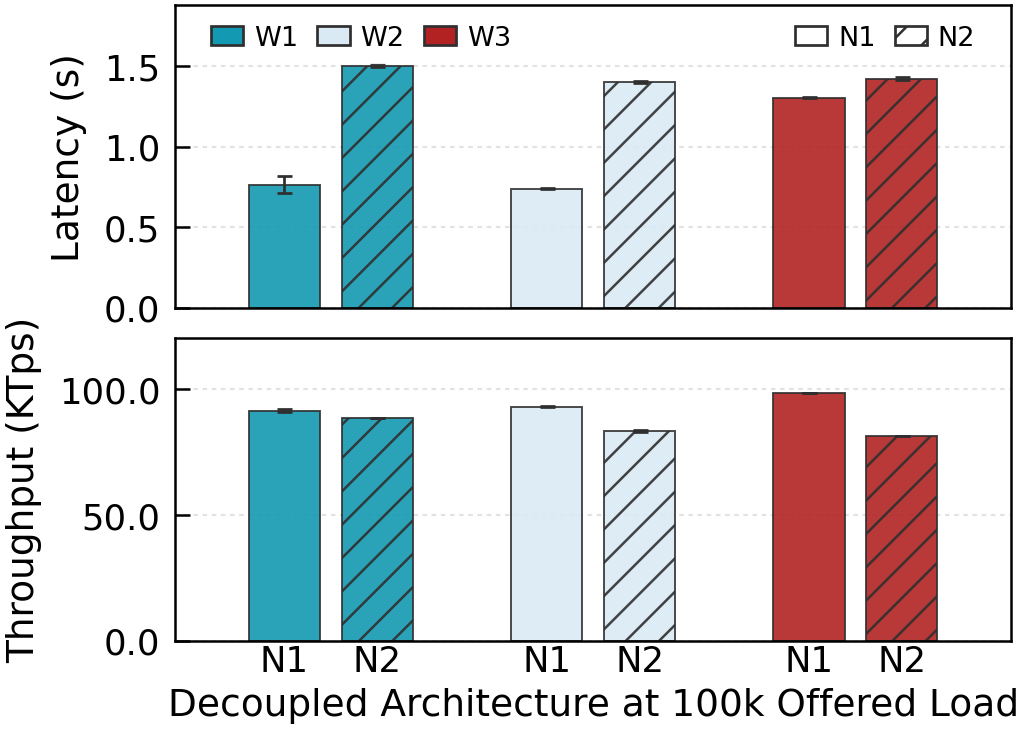
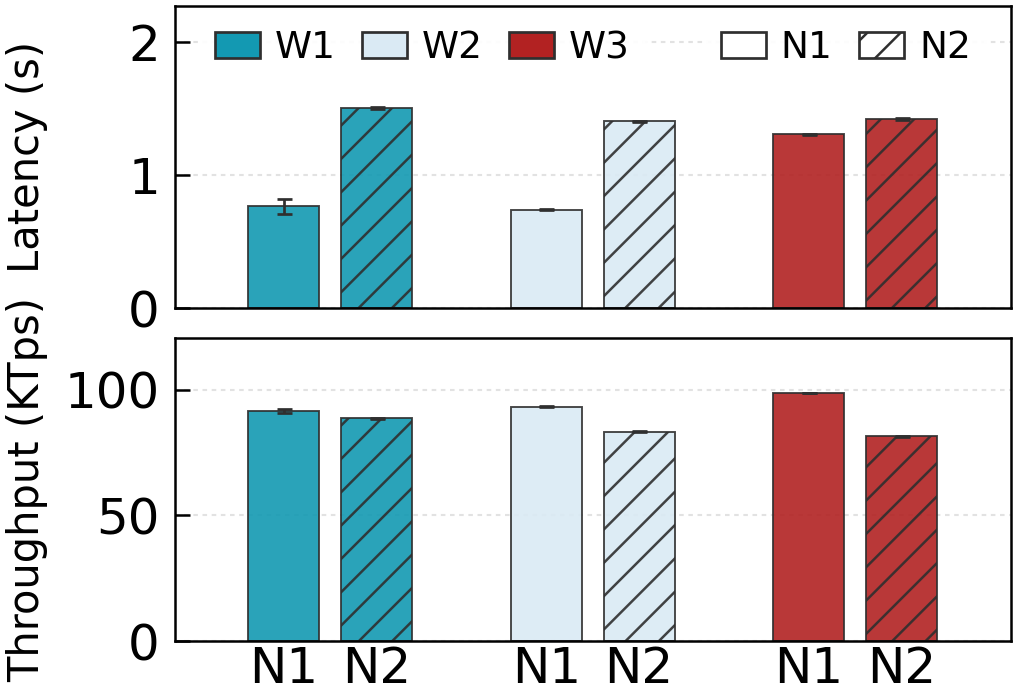
m

Changed region(s): [[0.0, 0.0, 1.0, 0.9914], [0.7323, 0.721, 0.7628, 0.7511], [0.7323, 0.2403, 0.7628, 0.2704]]

diff --git a/benchmark/decouple/compare/plot_workload_grouped_network_metrics_decouple_100k_consensus.py b/benchmark/decouple/compare/plot_workload_grouped_network_metrics_decouple_100k_consensus.py
@@ -13,7 +13,7 @@ from statistics import mean, stdev
 
 import matplotlib.pyplot as plt
 from matplotlib.patches import Patch
-from matplotlib.ticker import StrMethodFormatter
+from matplotlib.ticker import FuncFormatter
 
 SCRIPT_DIR = Path(__file__).resolve().parent
 DATA_ROOT = SCRIPT_DIR.parent
@@ -159,11 +159,11 @@ def _set_academic_style():
             "font.sans-serif": ["DejaVu Sans", "Arial", "Helvetica"],
             "mathtext.fontset": "dejavusans",
             "font.size": 9,
-            "axes.labelsize": 9,
+            "axes.labelsize": 10,
             "axes.titlesize": 9,
-            "xtick.labelsize": 8.5,
-            "ytick.labelsize": 8.5,
-            "legend.fontsize": 6.5,
+            "xtick.labelsize": 12,
+            "ytick.labelsize": 12,
+            "legend.fontsize": 9,
             "legend.title_fontsize": 6.5,
             "axes.spines.top": True,
             "axes.spines.right": True,
@@ -198,12 +198,12 @@ def _build_positions() -> list[float]:
     return positions
 
 
-def _style_axis(ax, ylabel: str, tick_format: str = "{x:,.1f}"):
+def _style_axis(ax, ylabel: str):
     ax.set_ylabel(ylabel)
     ax.grid(True, axis="y", linestyle=(0, (2.2, 2.2)), alpha=0.28, color="#9a9a9a")
     ax.grid(False, axis="x")
     ax.set_axisbelow(True)
-    ax.yaxis.set_major_formatter(StrMethodFormatter(tick_format))
+    ax.yaxis.set_major_formatter(FuncFormatter(lambda x, _: f"{x:g}"))
 
 
 def plot_combo_metrics(output_paths: list[Path]):
@@ -262,13 +262,13 @@ def plot_combo_metrics(output_paths: list[Path]):
 
     latency_top = max(v + e for v, e in zip(latency_values, latency_errors))
     tps_top = max(v + e for v, e in zip(tps_values, tps_errors))
-    ax_latency.set_ylim(0, latency_top * 1.24)
+    ax_latency.set_ylim(0, latency_top * 1.5)
     ax_tps.set_ylim(0, tps_top * 1.22)
     ax_latency.tick_params(axis="x", bottom=False, top=False, labelbottom=False)
     ax_tps.tick_params(axis="x", bottom=False, top=False, pad=1)
     ax_tps.set_xticks(x_positions)
     ax_tps.set_xticklabels(x_labels)
-    ax_tps.set_xlabel("Decoupled Architecture at 100k Offered Load", labelpad=2)
+    # ax_tps.set_xlabel("Decoupled Architecture at 100k Offered Load", labelpad=2)
 
     ax_latency.set_xlim(min(x_positions) - 0.02, max(x_positions) + 0.02)
 
@@ -324,6 +324,7 @@ def plot_combo_metrics(output_paths: list[Path]):
     )
 
     output_paths[0].parent.mkdir(parents=True, exist_ok=True)
+    fig.align_ylabels([ax_latency, ax_tps])
     fig.subplots_adjust(
         hspace=0.10,
         bottom=0.22,
